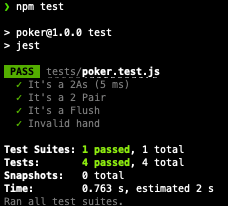
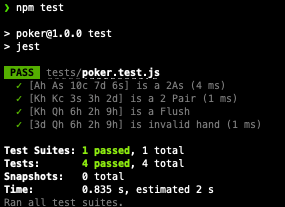
update readme

diff --git a/tests/poker.test.js b/tests/poker.test.js
@@ -1,14 +1,14 @@
 const determineRanks = require('../poker')
  
-test('It\'s a 2As', () => {
+test('[Ah As 10c 7d 6s] is a 2As', () => {
     expect(determineRanks('Ah As 10c 7d 6s')).toBe('It\'s a Pair of Aces!');
 });
-test('It\'s a 2 Pair', () => {
+test('[Kh Kc 3s 3h 2d] is a 2 Pair', () => {
     expect(determineRanks('Kh Kc 3s 3h 2d')).toBe('It\'s a 2 Pair!');
 });
-test('It\'s a Flush', () => {
+test('[Kh Qh 6h 2h 9h] is a Flush', () => {
     expect(determineRanks('Kh Qh 6h 2h 9h')).toBe('It\'s a Flush!');
 });
-test('Invalid hand', () => {
+test('[3d Qh 6h 2h 9h] is invalid hand', () => {
     expect(determineRanks('3d Qh 6h 2h 9h')).toBe('Hand is invalid!');
 });
